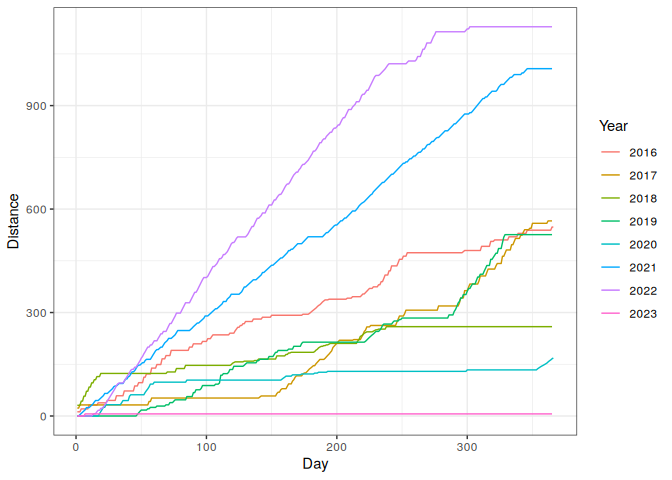
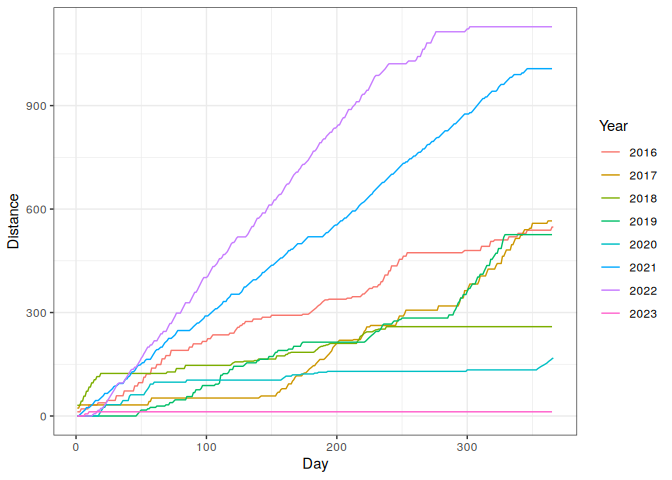
UPD 2023-01-10

Changed region(s): [[0.125, 0.8438, 0.8125, 0.875]]

diff --git a/run_data_analysis.md b/run_data_analysis.md
@@ -55,7 +55,7 @@ run_data %>%
     ##     week `2016` `2017` `2018` `2019` `2020` `2021` `2022` `2023`
     ##    <dbl>  <dbl>  <dbl>  <dbl>  <dbl>  <dbl>  <dbl>  <dbl>  <dbl>
     ##  1     1   20.7   32.1   57.5   0      0      18.0   0       6.1
-    ##  2     2   11      0     47.7   0      0      22.4   6.76    0  
+    ##  2     2   11      0     47.7   0      0      22.4   6.76    6.1
     ##  3     3    6.5    0     18.2   0     25.3    18.6  19.4     0  
     ##  4     4    7      0      0     0      7.38   20.3  41.7     0  
     ##  5     5   13.5    0      0     0      5.89   14.9  27.8     0  
@@ -87,7 +87,7 @@ run_data %>%
     ## 5  2020  32.7  65.4   6     0     0    17.8   7.6   0     0    4.19   0    34.7
     ## 6  2021  87.2  89.7  82.2  94.0  84.2  82.5  74.7 107.   95.0 87.5   98.4  25.2
     ## 7  2022  88.3 124.  139   152.  116.  141.  136.  126.   69.1 38.2    0     0  
-    ## 8  2023   6.1   0     0     0     0     0     0     0     0    0      0     0
+    ## 8  2023  12.2   0     0     0     0     0     0     0     0    0      0     0
 
 ## Overall descriptive statistics by year
 
@@ -113,7 +113,7 @@ run_data %>%
     ## 5  2020    39  4.32   3.37  1.97 12.7   168. 
     ## 6  2021   242  4.16   3.94  2.06  7.22 1007. 
     ## 7  2022   182  6.20   6.22  2.5  10.9  1129. 
-    ## 8  2023     1  6.1    6.1   6.1   6.1     6.1
+    ## 8  2023     2  6.1    6.1   6.1   6.1    12.2
 
 ## Cumulative distance graphs by year
 
@@ -151,11 +151,6 @@ run_data %>%
   theme_bw()
 ```
 
-    ## Warning: Removed 2182 rows containing non-finite values (`stat_density()`).
-
-    ## Warning: Groups with fewer than two data points have been dropped.
-
-    ## Warning in max(ids, na.rm = TRUE): у 'max' нет не пропущенных аргументов;
-    ## возвращаю -Inf
+    ## Warning: Removed 2181 rows containing non-finite values (`stat_density()`).
 
 ![](run_data_analysis_files/figure-gfm/unnamed-chunk-8-1.png)<!-- -->
